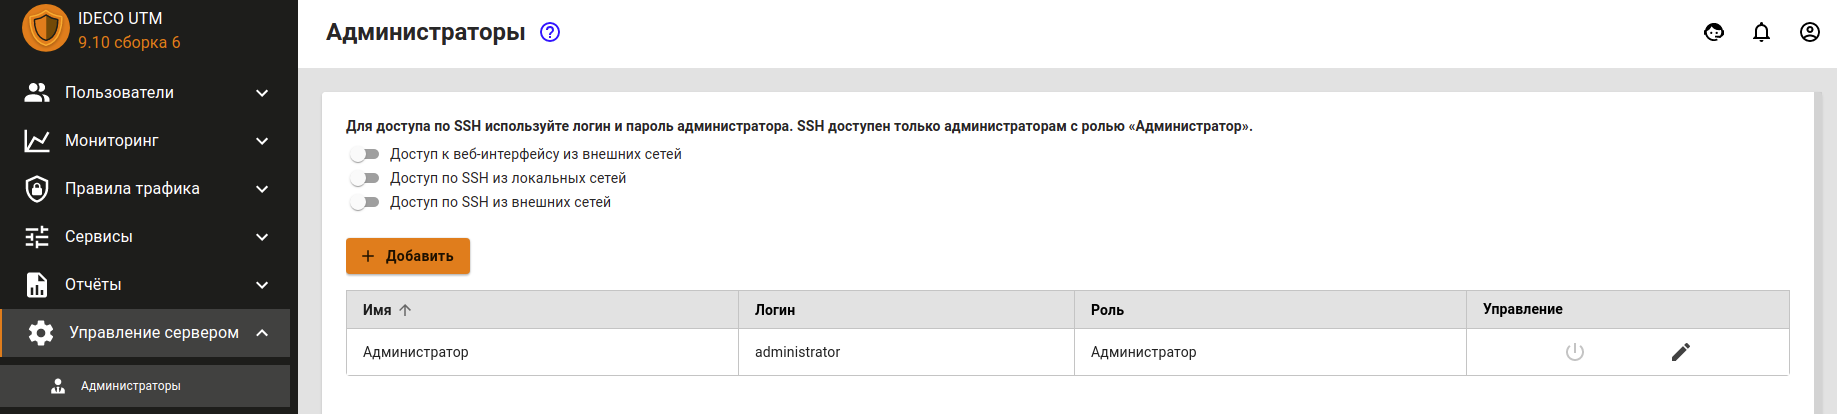
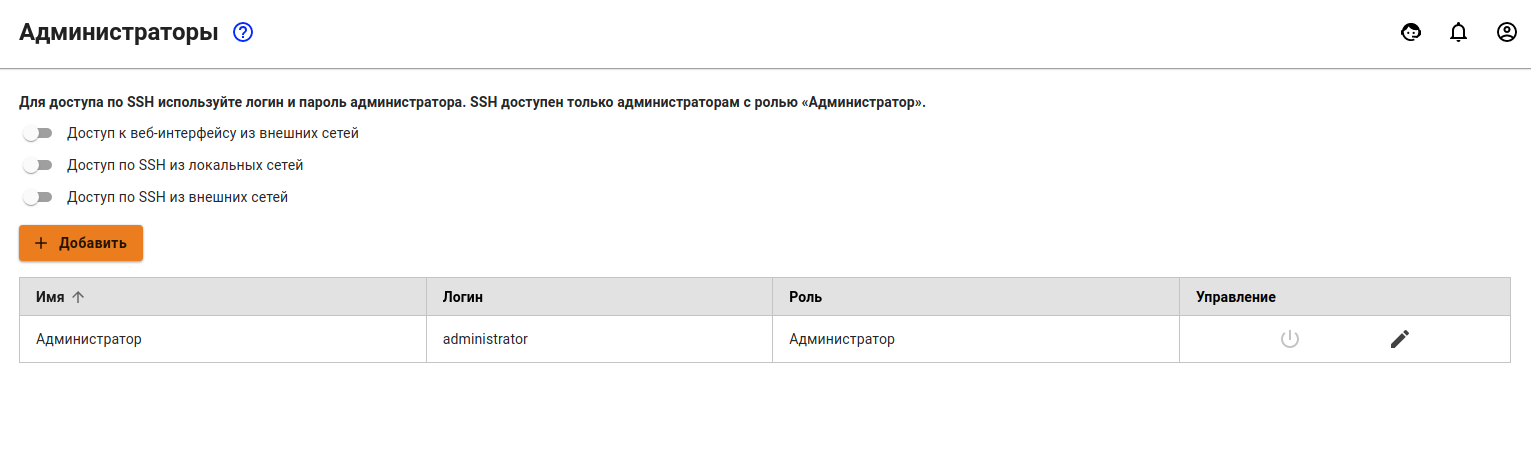
GitBook: [master] 143 pages and 7 assets modified

diff --git a/settings/access-rules/quotas.md b/settings/access-rules/quotas.md
@@ -29,7 +29,7 @@ dateCreated: '2021-04-02T07:24:34.876Z'
 5. **Период действия ограничения** - выберите период действия, на который будет выделена квота.
 6. Проверьте правильность введенных данных и нажмите на кнопку **Добавить**.
 
-![](../../.gitbook/assets/kvota.png)
+![](../../.gitbook/assets/qoutes.png)
 
 Управление квотами осуществляется с помощью кнопок в столбце **Управление**. Можно отключить или включить квоту, отредактировать или удалить.
 
@@ -41,13 +41,13 @@ dateCreated: '2021-04-02T07:24:34.876Z'
 
 Созданные квоты можно применить для групп пользователей на вкладке **Квота**.
 
-![](../../.gitbook/assets/kvota-group.png)
-
 Вы можете наследовать квоту от вышестоящей группы, или выбрать другую квоту, для этого потребуется деактивировать переключатель **Наследовать квоту от группы** и выбрать нужную вам квоту.
+
+![](../../.gitbook/assets/qoutes-user.gif)
 
 У группы **Все** имеется отдельный переключатель **Использовать квоты**. Данный параметр позволяет распространить использование квот для всех пользователей.
 
-![](../../.gitbook/assets/kvota-all.png)
+![](../../.gitbook/assets/qoutas-all.gif)
 
 ### Настройка пользователей
 

diff --git a/service/remote-access-for-server-management.md b/service/remote-access-for-server-management.md
@@ -12,8 +12,6 @@ dateCreated: '2021-04-02T07:20:40.251Z'
 
 ## Подключение из локальной сети
 
-![](../.gitbook/assets/admins.png)
-
 Подключение к локальному меню осуществляется по SSH. Для организации доступа из локальной сети к меню сервера необходимо выполнить следующие действия:
 
 1. Разрешить подключение по SSH. Для этого перейдите в меню **Управление сервером -&gt; Администраторы** и активируйте пункт **Доступ по SSH из локальных сетей**.
